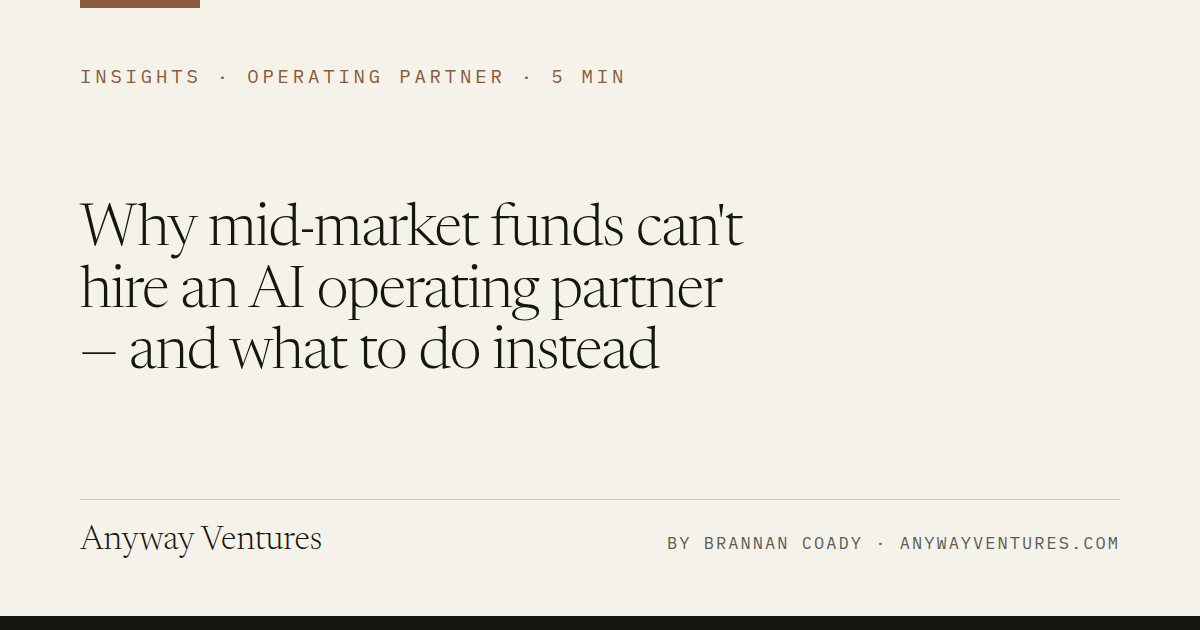
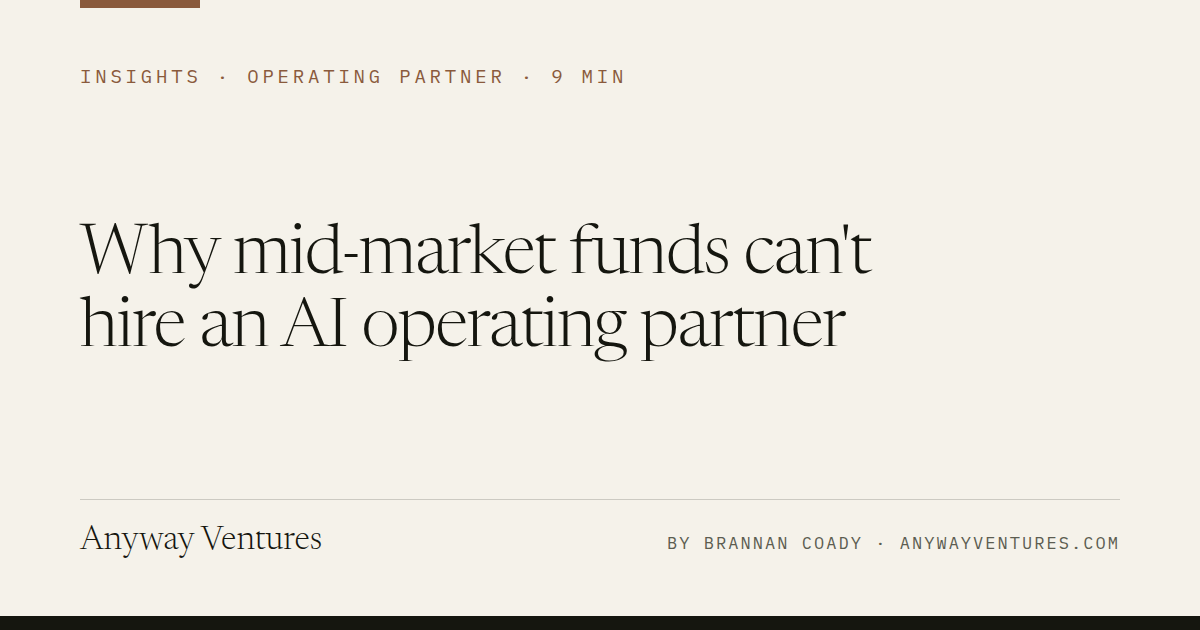
Expand 'Why mid-market funds can't hire an AI operating partner' to full depth
Illustrative cost model uses a £10k/month retainer, inside the band published
on the How we work page.

Claude-Session: https://claude.ai/code/session_01VDwvbLqM1kkCQ47dw2bsmj

Changed region(s): [[0.0617, 0.3016, 0.74, 0.6032]]

diff --git a/src/content/insights/why-mid-market-funds-cant-hire-an-ai-operating-partner.md b/src/content/insights/why-mid-market-funds-cant-hire-an-ai-operating-partner.md
@@ -1,22 +1,132 @@
 ---
-title: "Why mid-market funds can't hire an AI operating partner — and what to do instead"
-standfirst: "The people who can do the job are scarce, expensive, and mostly don't want a full-time seat at a £300m fund. There's a better structure."
+title: "Why mid-market funds can't hire an AI operating partner"
+standfirst: "The people who can do the job are scarce, expensive, and mostly don't want a full-time seat at a £300m fund. There's a better structure, and it costs far less per portfolio company."
+description: "Why a full-time hire rarely pays off for a lower-mid-market fund, and how to structure a fractional AI operating partner so the portfolio actually ships."
 kicker: "OPERATING PARTNER"
 published: 2026-08-01
-updated: 2026-08-01
-read: "5 MIN"
-readLong: "Five minutes"
+updated: 2026-09-25
+read: "9 MIN"
+readLong: "Nine minutes"
 audience: "Fund partners, portfolio directors"
 service: "Fractional AI operating partner"
 serviceHref: "/ai-operating-partner"
 pull: "A roadmap is not a capability, and management teams were already busy."
-description: "Why lower mid-market PE funds struggle to hire a full-time AI operating partner, and why a fractional, delivery-backed model works better across a portfolio."
-order: 2
+order: 12
+tags: ["fractional AI operating partner", "hire AI operating partner", "AI operating partner cost", "private equity operating partner AI", "portfolio AI strategy"]
+related: ["ai-operating-partner-private-equity", "ai-value-creation-plan"]
+faq:
+  - q: "How much does an AI operating partner cost?"
+    a: "It depends heavily on the person and the fund, so treat any figure as an assumption. On illustrative numbers, a full-time hire with bonus, on-costs, a recruitment fee and one engineer comes to around £530k in year one before carry. A fractional partner at 3 days a month plus four fixed-price delivery sprints comes to around £250k, and the portfolio companies can fund the sprints."
+  - q: "Can a lower-mid-market PE fund hire a full-time AI operating partner?"
+    a: "It can, but with 6 to 15 portfolio companies the numbers rarely work. The people who can do the job expect partner-level pay and carry, want a team, take months to recruit and can leave with the knowledge. Most funds that size get more for less from a fractional operating partner with delivery bought on fixed scopes, then hire full-time once the portfolio justifies it."
+  - q: "How should a fractional AI operating partner arrangement be structured?"
+    a: "Agree 2 to 4 days a month across the portfolio, a clear scope of what is in and out, monthly CEO sessions and a one-page quarterly report per company for the investment committee. Buy delivery as fixed-price sprints per portfolio company. Set a 12 month term with a break at six months, written tests for each checkpoint, and a disclosed position on vendor relationships and conflicts."
+  - q: "Who should pay for AI delivery in a portfolio company, the fund or the company?"
+    a: "As a rule, whoever holds the benefit pays. Work that returns hours or revenue inside one company's P&L should be paid by that company, against a plan its CEO has signed. Portfolio-wide work, such as baselining every company or building a pattern several companies will reuse, sits more naturally with the fund. Check the LPA and your fee arrangements before charging anything to portfolio companies."
 ---
-Large-cap funds are building AI operating teams. Lower-mid-market funds — six to fifteen portfolio companies, small operating bench — mostly aren't, not because they don't see the need but because the economics don't work. A credible AI operating partner costs what a partner costs, and the portfolio isn't large enough to amortise that.
+Large-cap funds are building AI operating teams. Lower-mid-market funds, with six to fifteen portfolio companies and a small operating bench, mostly aren't. That isn't because they don't see the need. It's because the economics of the full-time hire don't work, and a fund that tries it can spend a year and half a million pounds before anything runs. A fractional AI operating partner, retained across the portfolio and backed by delivery bought on fixed scopes, is the better structure for a fund that size.
 
-The workaround most funds have landed on is a workshop: bring in a consultancy, run an AI strategy day with each management team, produce a roadmap. Six months later very little is in production, because a roadmap is not a capability and management teams were already busy.
+The workaround most funds have landed on is a workshop. Bring in a consultancy, run an AI strategy day with each management team, produce a roadmap. Six months later very little is in production. A roadmap is not a capability, and management teams were already busy.
 
-The structure that does work is fractional and continuous: a retained operating partner two to four days a month across the portfolio, who writes each company's AI value-creation plan, meets each CEO monthly, reports to the IC quarterly — and, crucially, can bring hands when a portco can't deliver alone. Plans without delivery capacity are how the workshop failure repeats.
+I've set out what the role contains [in a separate piece on the AI operating partner in private equity](/insights/ai-operating-partner-private-equity), so I won't repeat the job description here. This one is about money and structure: what the full-time seat really costs, why the strategy day fails, and how to set up the fractional version so it survives contact with a real portfolio.
 
-The fund gets a single owner for the AI thesis across the hold, at a fraction of a full-time cost, with patterns that transfer from one portco to the next. The portfolio companies get a counterpart who has sat in their chair. And the exit story gets evidenced rather than asserted.
+## Why the full-time hire doesn't pencil out
+
+[Korn Ferry](https://www.kornferry.com/institute/the-ai-operating-partner-the-latest-pe-portfolio-value-creation-role) notes that large PE firms have created AI operating partner roles, filled either by full-time employees or by part-time advisers. Large firms can spread that seat across dozens of companies.
+
+A £300m fund needs the capability just as much. The [Bain & Company and StepStone Group 2026 Private Equity GP Outlook](https://www.bain.com/insights/private-equitys-reality-check-gp-outlook-2026/) found GPs get their best returns from generative AI in their own deal sourcing and due diligence, while nearly 40% don't expect material financial impact from AI in their portfolio companies in 2026. The fund's own team is using AI well. The companies it owns mostly aren't.
+
+The bottleneck is people. [FTI Consulting's 2026 Private Equity AI Radar](https://www.fticonsulting.com/insights/reports/2026-private-equity-ai-radar) found only 36% of portfolio companies deploy AI in production with real operational impact, and talent was the top constraint to scaling, named by 35%. The person a mid-market fund needs has run a P&L, can sit opposite a sceptical CEO, and has personally shipped AI systems that are still running. That's a short list. Everyone on it has options.
+
+And the work is lumpy. In any quarter, two companies need heavy delivery, five need a monthly conversation and a nudge, and the rest need very little. A full-time salary pays for the quiet months at the same rate as the busy ones.
+
+## What an AI operating partner costs, on illustrative numbers
+
+The figures below are assumptions I've chosen to make the arithmetic visible. They are not market data, and your numbers will differ. Swap in your own and see whether the conclusion moves.
+
+Picture a fund with ten portfolio companies. For the full-time route, assume a base of £200k, a bonus target of 50%, employer on-costs of 15% on salary and bonus, and a search fee of 25% of base. Assume the hire, sensibly, asks for one senior engineer so they can build as well as advise, at £110k all in. Add £25k for tools, travel and expenses.
+
+For the fractional route, assume a retainer of £10k a month for 3 days a month, £10k of expenses, and four fixed-price delivery sprints across the portfolio in year one at £30k each.
+
+| Year one, ten portfolio companies | Full-time hire | Fractional plus bought delivery |
+|---|---|---|
+| Base salary | £200k | none |
+| Bonus (50% of base) | £100k | none |
+| Employer on-costs (15%) | £45k | none |
+| Search fee (25% of base) | £50k | none |
+| First team hire, one engineer | £110k | none |
+| Operating partner retainer (12 at £10k) | none | £120k |
+| Delivery sprints (4 at £30k) | not included | £120k |
+| Tools, travel, expenses | £25k | £10k |
+| Carry or co-invest | expected | none |
+| Total cash cost | £530k | £250k |
+| Per portfolio company | £53k | £25k |
+| Realistic first thing in production | month 9 to 12 | month 2 to 3 |
+
+The arithmetic: £200k plus £100k plus £45k plus £50k plus £110k plus £25k is £530k, or £53k per company. On the other side, £120k plus £120k plus £10k is £250k, or £25k per company.
+
+Two things make the gap wider than the totals suggest. First, the full-time column still hasn't bought any delivery beyond one engineer, and one engineer cannot build across ten companies. In practice the full-time partner buys sprints too, so add most of that £120k to the left-hand column. Second, if the portfolio companies pay for their own sprints (more on that below), the fund's own cost for the fractional route falls to £130k, or £13k per company.
+
+Then there's carry. A credible candidate will expect points from the carry pool or a co-invest allocation, because that's what an operating partner at a fund gets. It isn't a year-one cash cost, but it comes out of the same pool as the deal team's, and it's a long commitment to someone the fund hasn't yet seen work.
+
+## Recruitment time, time to first result, and the leaving problem
+
+Cost is only half of it. Time matters more in a hold of four or five years.
+
+Assume three to four months to run a search, three months of notice, and a quarter spent learning ten businesses before anyone commits to building anything. That puts the first system in production somewhere around month nine to twelve. On a five-year hold, the fund has spent a fifth of it waiting.
+
+A fractional partner who has done the job before can baseline the first companies in weeks and have a scoped sprint running in one of them by the end of the second month.
+
+Now the uncomfortable scenario. The full-time hire leaves at month eighteen, which senior people with options do. The fund has spent the best part of £800k on the illustrative numbers, the relationships with ten CEOs walk out of the door, and the search starts again. Anything undocumented quietly stops.
+
+A fractional arrangement fails more cheaply. If it isn't working at month six, you end it and you've spent a quarter of the money.
+
+## Why the strategy day per portfolio company fails
+
+The common workaround looks sensible on paper. A consultancy runs a day with each management team, interviews a few heads of department, and leaves behind a prioritised roadmap.
+
+Then nothing much happens. The roadmap names the right workflows, but nobody in the business has the time or the skills to build them, and the consultancy has moved on. The CEO is running the 100-day plan, the finance director is on the refinancing, and the one person who understood the idea is back in their day job.
+
+The wider evidence says pilots die in exactly this gap. The [MIT NANDA study reported by Fortune](https://fortune.com/2025/08/18/mit-report-95-percent-generative-ai-pilots-at-companies-failing-cfo/) found 95% of generative AI pilots it examined showed no measurable P&L impact, and put the core cause down to a "learning gap": systems that don't retain feedback or adapt to how work is actually done. Critics fairly point out that many of those pilots had no baseline measured before launch, which is its own lesson. The same study found buying from specialised vendors and partnering succeeded about 67% of the time, while internal builds succeeded about a third as often. Help that stays long enough to finish the job matters.
+
+[S&P Global Market Intelligence](https://www.ciodive.com/news/AI-project-fail-data-SPGlobal/742590/) found 42% of companies abandoned most of their AI initiatives in 2025, up from 17% in 2024, and the average organisation scrapped 46% of its proofs of concept before production. A roadmap handed to a busy management team is a proof of concept waiting to be scrapped.
+
+Ten strategy days with write-ups can cost as much as a year of fractional cover, with nothing running at the end.
+
+## How to structure a fractional AI operating partner arrangement
+
+The fractional model works when it's written down properly. Failures come from vague scope and nobody owning delivery. Agree these terms before anyone starts.
+
+Scope in days. Two to four days a month across the portfolio, set by portfolio size and how much delivery is live. Agree the number and a simple way to flex it for a quarter when a company needs more.
+
+In scope: a baseline for every company, a costed plan per company (the method is in [the AI value-creation plan](/insights/ai-value-creation-plan)), a monthly session with each CEO, a one-page quarterly report per company for the investment committee, vendor selection, and oversight of every delivery sprint. Out of scope: running IT, cyber security, ERP selection, acting as any company's CTO, and deal-side work, which should be priced separately as [AI due diligence](/ai-due-diligence) when a deal needs it.
+
+Delivery bought on fixed prices. Each piece of build work is a fixed-price sprint of 2 to 8 weeks inside one company, with a named owner in the business, a before-and-after measure and a handover date.
+
+Who pays. Whoever holds the benefit. If a sprint returns hours to one company's finance team, that company pays, against a plan its CEO has signed. If the work is portfolio-wide, such as the baseline or a pattern three companies will reuse, the fund pays. Check your LPA and fee arrangements before charging anything to portfolio companies.
+
+Reporting to the IC. Quarterly, same format every time: what's live, hours returned to the business per month, run cost, what was stopped and why, what next quarter commits to.
+
+Term. Twelve months with a break at six. Long enough to ship, short enough that nobody is trapped.
+
+Conflicts and vendor independence. The operating partner should disclose every commercial relationship with a software vendor and take no referral fees. If their own firm also delivers sprints, as mine does through [embedded AI delivery](/embedded-ai-delivery), say so in the engagement letter, show fixed prices to the IC before work starts, and keep the fund's right to put any sprint out to tender. Independence is proven by the recommendations, including the ones that say don't build anything yet.
+
+## Testing it at six and twelve months, and how it ends
+
+At six months, ask four plain questions. Is there a signed-off baseline for every company? Does every company have a costed plan its CEO has agreed? Is at least one thing running in production and measured? Has anything been stopped? If the answer to the third is no, the arrangement is producing roadmaps, and you've bought the strategy day again at a monthly rate.
+
+At twelve months the question narrows to money and durability. Hours returned to the business per month across the portfolio, net of run costs, and what is still running, unattended, six months after it shipped.
+
+Every fractional arrangement should also say how it ends. One route is handover. Each company has named owners for what was built, run books, and a supplier relationship it controls, so the systems keep working when the operating partner stops turning up. The other route is growth. When the portfolio gets large enough, or software-heavy enough, that a full-time seat pays for itself, the fractional partner should help write that job description and run the handover to whoever takes it.
+
+## What the fund gets from one owner of the portfolio AI strategy
+
+The first thing is accountability. One person owns the AI thesis across the hold, from the plan written after close to the evidence pack at exit. The IC has one name to ask.
+
+The second is transfer. Portfolio companies in a mid-market fund often share more than they think: similar back offices, similar customer service queues, similar quote-to-cash processes. Take a supplier invoice matching workflow built for a £40m distribution business. Rebuilt for a second portfolio company, it's mostly configuration and data work, so the second sprint might cost half the first and ship in half the time. A consultancy running separate strategy days never sees the pattern. An operating partner who sits across the portfolio sees it in the first month.
+
+The third is exit evidence. A buyer's diligence team will mark down anything described as AI-enabled that can't be shown working. Systems in production, usage logs, before and after measures and the cost to run them go into the equity story. Assertions don't.
+
+And the portfolio companies get a counterpart who has sat in their chair. I ran Netsells as CEO for around a decade and later sat on the executive team at YourParkingSpace. What management teams want from the fund on AI is someone who will say which idea to kill, then help build the one that's left.
+
+For a fund with ten companies, the realistic comparison is £530k for a seat that starts delivering in year two against roughly £250k for something running this quarter. If you want to test the numbers against your own portfolio, the [fractional AI operating partner](/ai-operating-partner) page sets out how we work, and the first call is free.
